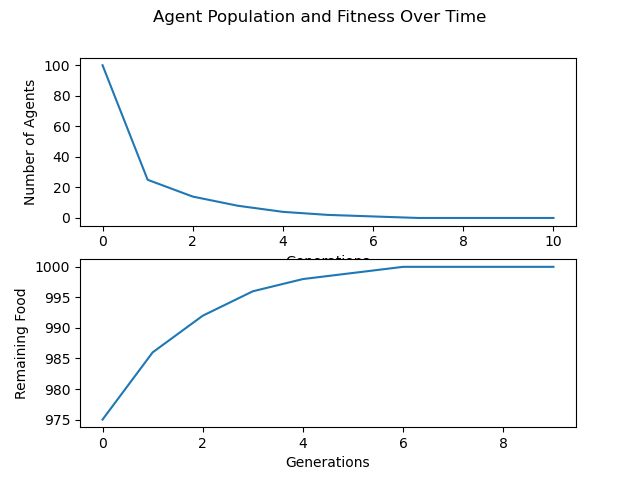
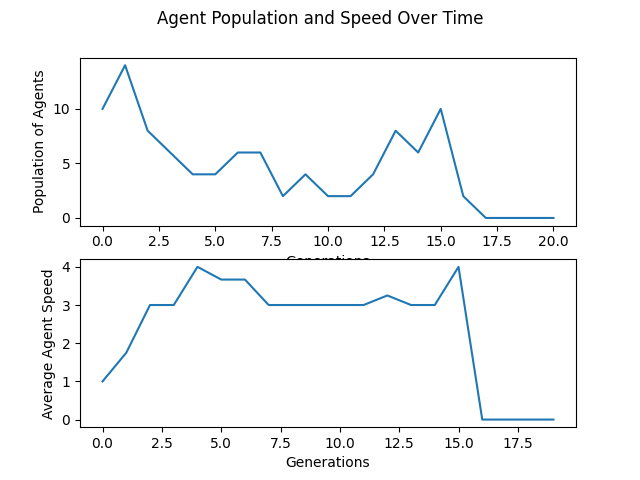
added reproduction rules, mutation, and updated readme

diff --git a/natural_selection.py b/natural_selection.py
@@ -9,15 +9,13 @@ class Agent:
     def __init__(self, x, y, environment):
         self.x = x
         self.y = y
-        self.fitness = 0
         self.environment = environment
-        self.death_rate = 0.01
         self.satiated = False
-        self.energy = 15
-        self.speed = 2
-        self.movement_cost = 1 / self.speed
-        self.food_reward = 15
-        self.stationary_penalty = 0.75
+        self.energy = 15 # starting energy when agent is spawned
+        self.speed = 1
+        self.movement_cost = self.speed # 1/speed to get step cost, * speed^2 as biological limitation, add'l energy for add'l speed
+        self.food_reward = 10 # reward collected for consuming food
+        self.stationary_penalty = 1 # penalty for remaining stationary
 
     def manhattan(self, food):
         return (abs(self.x - food[0]) + abs(self.y - food[1]))
@@ -76,26 +74,19 @@ class Agent:
             if distance_to_food < dist:
                 closest = self.environment.food_grid[i]
                 dist = distance_to_food
-        #print("distance to food is: " + str(dist) + ", energy is " + str(self.energy))
 
         # determine whether the food is worth consuming
         if dist < (self.energy * self.speed):
-            #print("agent will pursue food located at " + str(closest))
             self.shortest_path_step(closest)
             self.eat()   
         else:
             self.energy -= self.stationary_penalty
             self.satiated = True
-            #print("agent remains stationary")
 
     def eat(self):
         if ((self.x, self.y) in self.environment.food_grid):
             self.environment.food_grid.remove((self.x, self.y))
             self.energy += self.food_reward
-            #print("agent has eaten")
-
-    def die(self):
-        self.environment.agents.remove(self)
 
 # ENVIRONMENT CLASS ~~~~~~~~~~~~~~~~~~~~~~~~~~~~~~~~~~~~~~~~~~~~~~~~~~~~
 class Environment:
@@ -107,7 +98,8 @@ class Environment:
         self.agent_counts = [len(self.agents)]
         self.food_grid = []
         self.remaining_food = []
-        self.avg_energy = 0
+        self.avg_energy = []
+        self.avg_speed = []
 
     def populate_food(self):
         self.food_grid = [(random.randint(0, self.width), random.randint(0, self.height)) for _ in range(self.num_food)]
@@ -115,34 +107,63 @@ class Environment:
     def kill_the_weak(self):
         self.agents = [agent for agent in self.agents if agent.energy > 0.0]
 
+    def calculate_energy_avg(self):
+        energy = [agent.energy for agent in self.agents]
+        avg = sum(energy) / len(energy)
+        return avg
+    
+    def calculate_speed_avg(self):
+        speed = [agent.speed for agent in self.agents]
+        avg = sum(speed) / len(speed)
+        return avg
+
+    # function that simulates one generation
     def step(self):
         self.populate_food()
         all_agents_satiated = False
+
+        # move all agents one step at a time until all are satiated
         while not all_agents_satiated:
-            #print("ROUND OF MOVEMENT, NOT ALL AGENTS SATIATED")
             satiation = []
             for agent in self.agents:
-                #print("agent position: (" + str(agent.x) + ", " + str(agent.y) + ")")
                 agent.move_to_food()
-                #print("agent position after step: (" + str(agent.x) + ", " + str(agent.y) + ")")
-                #if agent.satiated:
-                #    print("agent is satiated")
-                #else:
-                #    print("agent still hungry")
                 satiation.append(agent.satiated)
             all_agents_satiated = all(satiation)
         
+        # remove agents with energy < 0
         self.kill_the_weak()
 
+        # write metrics to lists for examiniation
         self.remaining_food.append(len(self.food_grid))
+        if len(self.agents) > 0:
+            self.avg_energy.append(self.calculate_energy_avg())
+            self.avg_speed.append(self.calculate_speed_avg())
+        else:
+            self.avg_energy.append(0)
+            self.avg_speed.append(0)
 
-        # Select agents for reproduction based on food consumption
+        # REALLOCATION OF SURVIVING AGENTS AND REPRODUCTION
+        num_survivors = len(self.agents)
         new_agents = []
-        for _ in range(len(self.agents)):
+        # random mutation occurs with the following odds
+        speed_boost = {0 : 10, 1 : 2, 2 : 1}
+
+        for _ in range(num_survivors):
+            # all surviving agents persist the next generation
             parent = random.choice(self.agents)
-            child_x = (parent.x)
-            child_y = (parent.y)
-            new_agents.append(Agent(child_x, child_y, self))
+            parent.x = random.randint(0, self.width)
+            parent.y = random.randint(0, self.height)
+            parent_speed = parent.speed
+            new_parent = Agent(parent.x, parent.y, self)
+            # all surviving agents will replicate
+            new_parent.speed = parent_speed
+            new_agents.append(new_parent)
+            # speed of child randomly mutates
+            speed = parent_speed + random.choices(list(speed_boost.keys()), weights=list(speed_boost.values()), k=1)[0]
+            child_agent = Agent(random.randint(0, self.width), random.randint(0, self.height), self)
+            child_agent.speed = speed
+            new_agents.append(child_agent)
+    
         self.agents = new_agents
 
         # Add current number of agents to list
@@ -181,12 +202,13 @@ class Environment:
 # DRIVER ~~~~~~~~~~~~~~~~~~~~~~~~~~~~~~~~~~~~~~~~~~~~~~~~~~~~
 def simulate(iterations, num_agents=10, num_food=100) :
     env = Environment(50, 50, num_agents, num_food)
+    # ANIMATE WILL OVERWRITE ENV, CANNOT RUN FOR CHARTS
     #env.animate() # create animation
     for i in range(iterations) :
         print("Iteration Number " + str(i+1))
-        print("Remaining Survivors: " + str(env.agent_counts[i]))
+        print("Total Population: " + str(env.agent_counts[i]))
         env.step()
         
         if i == iterations - 1 :
             print(env.agent_counts)
-            return(env.agent_counts, env.remaining_food)
+            return(env.agent_counts, env.avg_energy, env.avg_speed)

diff --git a/plot.py b/plot.py
@@ -2,15 +2,15 @@ import matplotlib.pyplot as plt
 from natural_selection import simulate
 import os
 
-agent_count, food = simulate(10, 100, 1000)
+population, food, speed = simulate(20, 10, 50)
 
 fig, axs = plt.subplots(2)
-fig.suptitle("Agent Population and Fitness Over Time")
-axs[0].plot(agent_count)
-axs[0].set(ylabel="Number of Agents", xlabel="Generations")
-axs[1].plot(food)
-axs[1].set(ylabel="Remaining Food", xlabel="Generations")
+fig.suptitle("Agent Population and Speed Over Time")
+axs[0].plot(population)
+axs[0].set(ylabel="Population of Agents", xlabel="Generations")
+axs[1].plot(speed)
+axs[1].set(ylabel="Average Agent Speed", xlabel="Generations")
 
 mypath = os.path.dirname(os.path.abspath(__file__)) + '/'
 fig.savefig(mypath + "iteration_plot.png")
-# plt.show()
+plt.show()

diff --git a/README.md b/README.md
@@ -1,6 +1,23 @@
-# jung_livanec_miniproject
-This is a mini project for CS 5804 Intro to AI at Virginia Tech.
+# Hacking Natural Selection
+## Jinsol Jung, Jackson Livanec
+## CS 5804
+---
+## Description
+This project simulates natural selection and random mutation as an aspect of evolution. The randomly mutating speed trait is recorded over a number of generations as agents race to consume enough food to out-survive the others.
 
-## Motivation
+## Game Description and Rules
+Beginning at generation 0, agents and food are randomly spawned into a rectangular environment. Key agent field variables are `energy` and `speed`. Agents are started with a finite amount of energy and a speed of 1. Each timestep, all agents will search for the closest piece of food and determine whether the energy expenditure associated with moving to that food will be net positive. If the agent chooses to move to that food, it will expend energy at the rate speed $^{2}$. Simultaneous decision making often leads to competition over a single piece of food. Food consumption results in an energy reward to the consuming agent. The consumed food will no longer be available for other agents.
 
-## Objective
+If an agent determines that the closest food is not worth the energy expenditure, it will remain stationary and constantly lose energy at a rate less than movement alone. It flags itself as "satiated" via the field variable `Agent.satiated==True`. A generation is complete when all agents are satiated.
+
+The conclusion of a generation removes all agents depleted of energy. All surviving agents spawn successors with matching traits. There is a small probability that the speed trait will mutate and increase. All new and surviving agents are then randomly distributed into the environment with a new distribution of food. The amount of food available to the entire population remains constant to simulate scarcity and competition.
+
+## Variables and Parameters
+There are a number of parameters that determine agent behavior that can be manipulated for insightful reporting.
+
+* `simulate(iterations, num_agents, num_food)` is the main driver function and captures three arguments, `iterations`: the number of generations to run in the simulation, `num_agents`: the number of agents to randomly distribute in the environment for generation 1, and `num_food`: the amount of food to randomly distribute in the environment each generation.
+* `Environment()` class is passed the former variables, with the addition of `height` and `width` describing the shape of the environment.
+* `Agent.energy` can be tuned and represents the amount of energy the newly spawned agent has before any food consumption. This value is necessary for the agent to make the journey to its first piece of food.
+* `Agent.food_reward` can be tuned and represents the amount of energy rewarded to the agent when food is consumed.
+* `Agent.stationary_penalty` can be tuned and represents the penalty on energy each timestep that the agent remains stationary. This penalty discourages agents from retaining their initial energy assignment instead of searching for food when there is scarcity.
+* `speed_boost` is a dictionary representing possible mutations to the `speed` value and their associated probabilities. The default values are `{0:10, 1:2, 2:1}`
